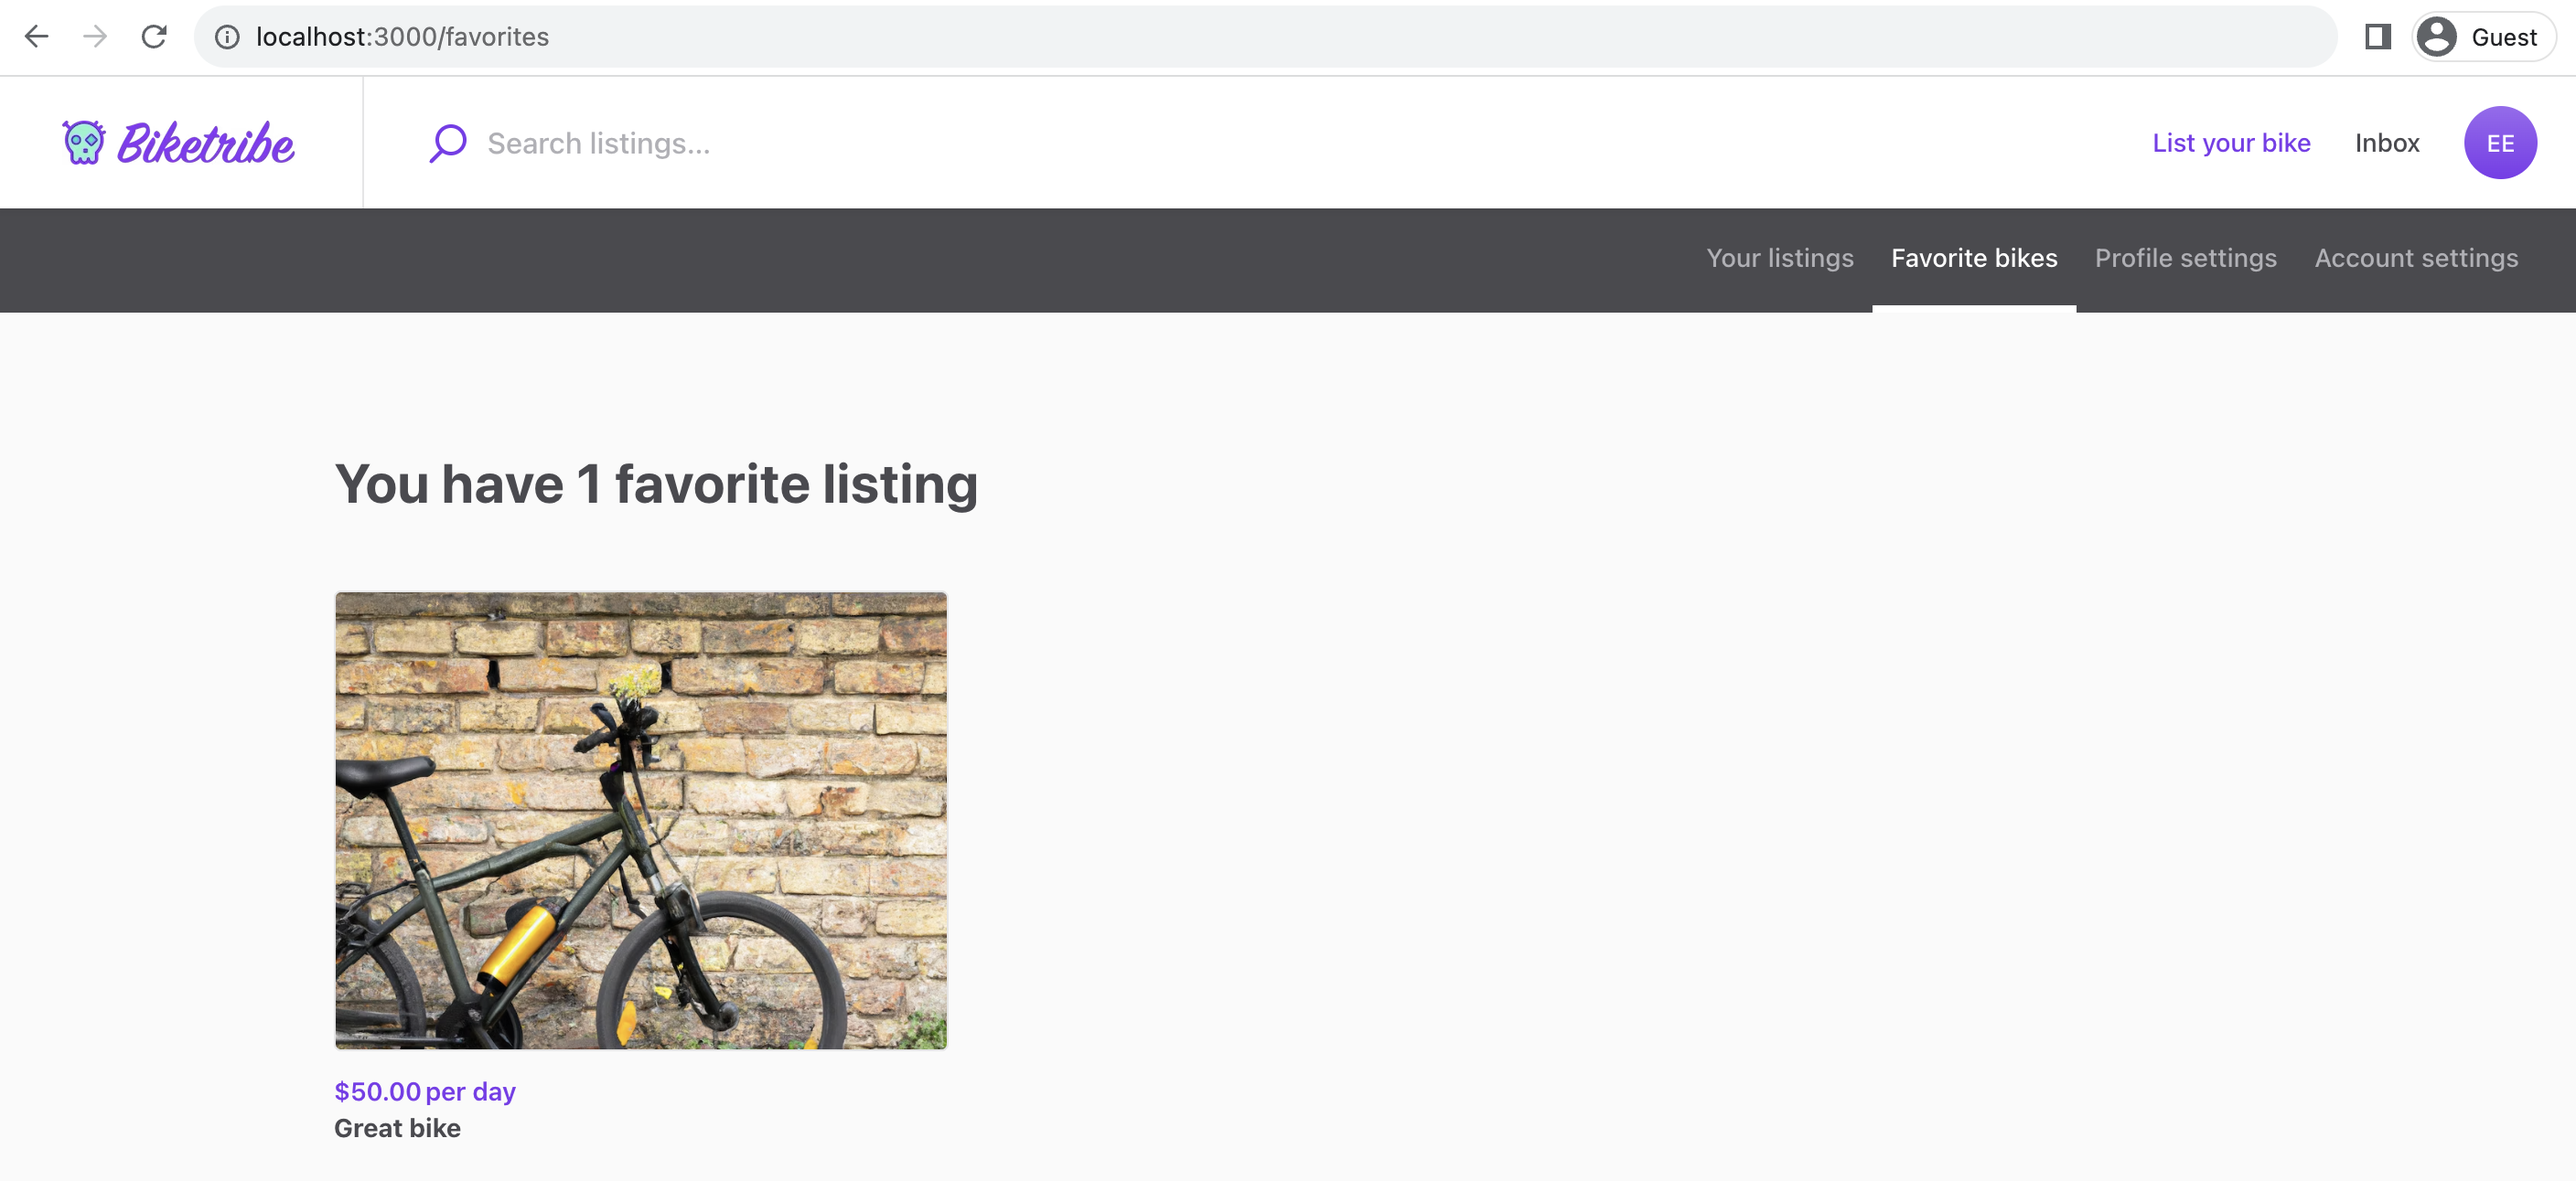
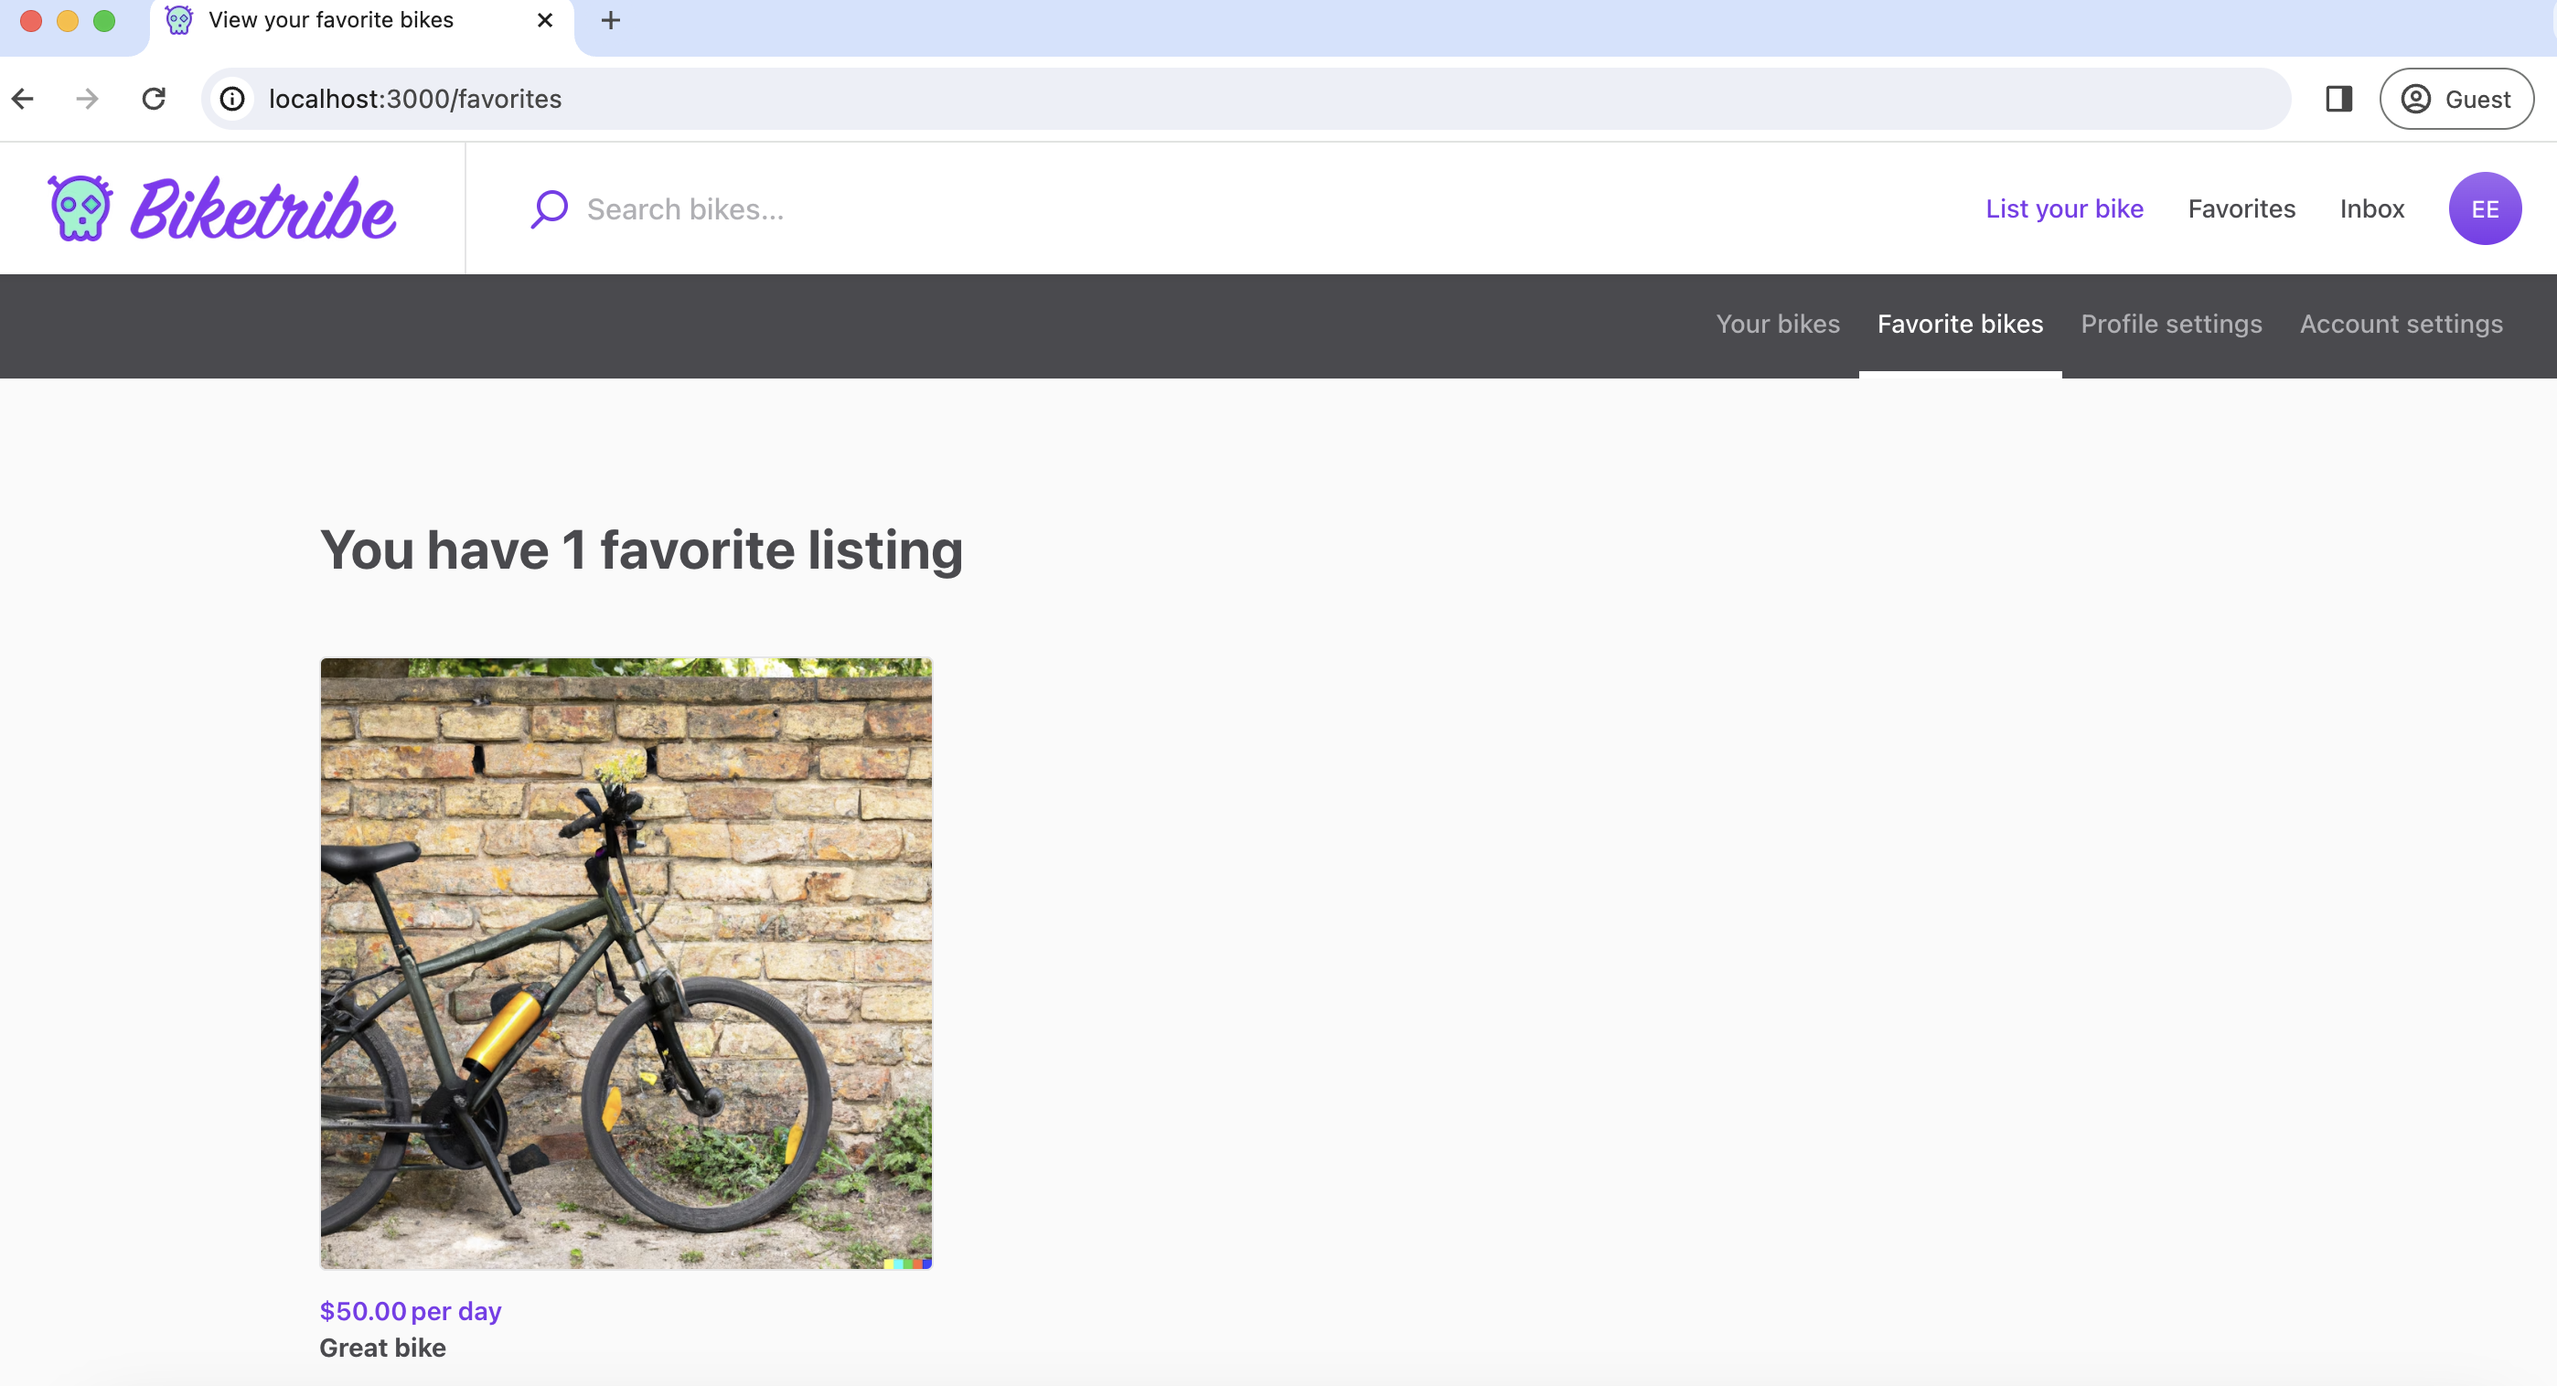
Update Favorites guide to add topbar link

Changed region(s): [[0.0, 0.0, 1.0, 0.2786], [0.1245, 0.4644, 0.3734, 0.9907], [0.1245, 0.3715, 0.4045, 0.4334]]

diff --git a/src/docs/tutorial-listings/favorite-bikes/index.md b/src/docs/tutorial-listings/favorite-bikes/index.md
@@ -198,7 +198,6 @@ Marketplace texts, or in src/translations/en.js.
   "FavoriteListingsPage.youHaveListings": "You have {count} favorite {count, plural, one {listing} other {listings}}",
   "OrderPanel.addFavoriteButton":"Add to favorites",
   "OrderPanel.unfavoriteButton":"Unfavorite",
-  "TopbarDesktop.favoriteListingsLink": "Favorite bikes",
   "UserNav.favoriteListings": "Favorite bikes"
 …
 ```
@@ -586,7 +585,7 @@ than one page of listings.
       <LayoutSingleColumn
         topbar={
           <>
-            <TopbarContainer currentPage="FavoriteListingsPage" />
+            <TopbarContainer />
             <UserNav currentPage="FavoriteListingsPage" />
           </>
         }
@@ -863,51 +862,27 @@ favorited listings.
 ## Add navigation
 
 As the final step, we will add our new favorite listings page into the
-navigation elements of the page – TopBar and UserNav.
+navigation elements of the page – Topbar and UserNav.
+
+You can add a link to
+[Topbar in Console > Build > Content > Top bar](https://console.sharetribe.com/a/content/top-bar).
+
+![Add topbar links in Console](./console-add-topbar-link.png)
 
 ```shell
 └── src
     └── components
-        ├── Topbar
-        │   └── TopbarDesktop
-        │       └── TopbarDesktop.js
         └── UserNav
             └── UserNav.js
 ```
 
-In the top bar, we will add Favorite Listings as a menu item to the
-profile menu that opens when a user clicks their avatar in the top right
-corner.
-
-![Default profile menu](./biketribe-default-profile-menu.png)
-
-To add the profile menu item, add the following code snippet in the
-profileMenu before the row `<MenuItem key="ProfileSettingsPage">`
-
-```
-    <MenuItem key="FavoriteListingsPage">
-      <NamedLink
-        className={classNames(css.yourListingsLink, currentPageClass('FavoriteListingsPage'))}
-        name="FavoriteListingsPage"
-      >
-        <span className={css.menuItemBorder} />
-        <FormattedMessage id="TopbarDesktop.favoriteListingsLink" />
-      </NamedLink>
-    </MenuItem>
-```
-
-Now, we can see a link to favorite listings page when we click the
-user’s profile image.
-
-![Profile menu with favorites page](./biketribe-favorites-profile-menu.png)
-
 The last addition comes to the UserNav component.
 
-When we click on the profile menu link for favorite listings, we get to
-the page. However, the user navigation bar does not show the favorite
-listings page.
+When we click on the the link for favorite listings, we get to the page.
+However, the user navigation bar does not show the favorite listings
+page.
 
-![Default UserNav bar](./biketribe-favorites-page.png)
+![Default UserNav bar](./biketribe-favorites-page-with-topbar.png)
 
 Let’s add the link next. Open the _UserNav.js_ file and replace the tabs
 array with the following code:
